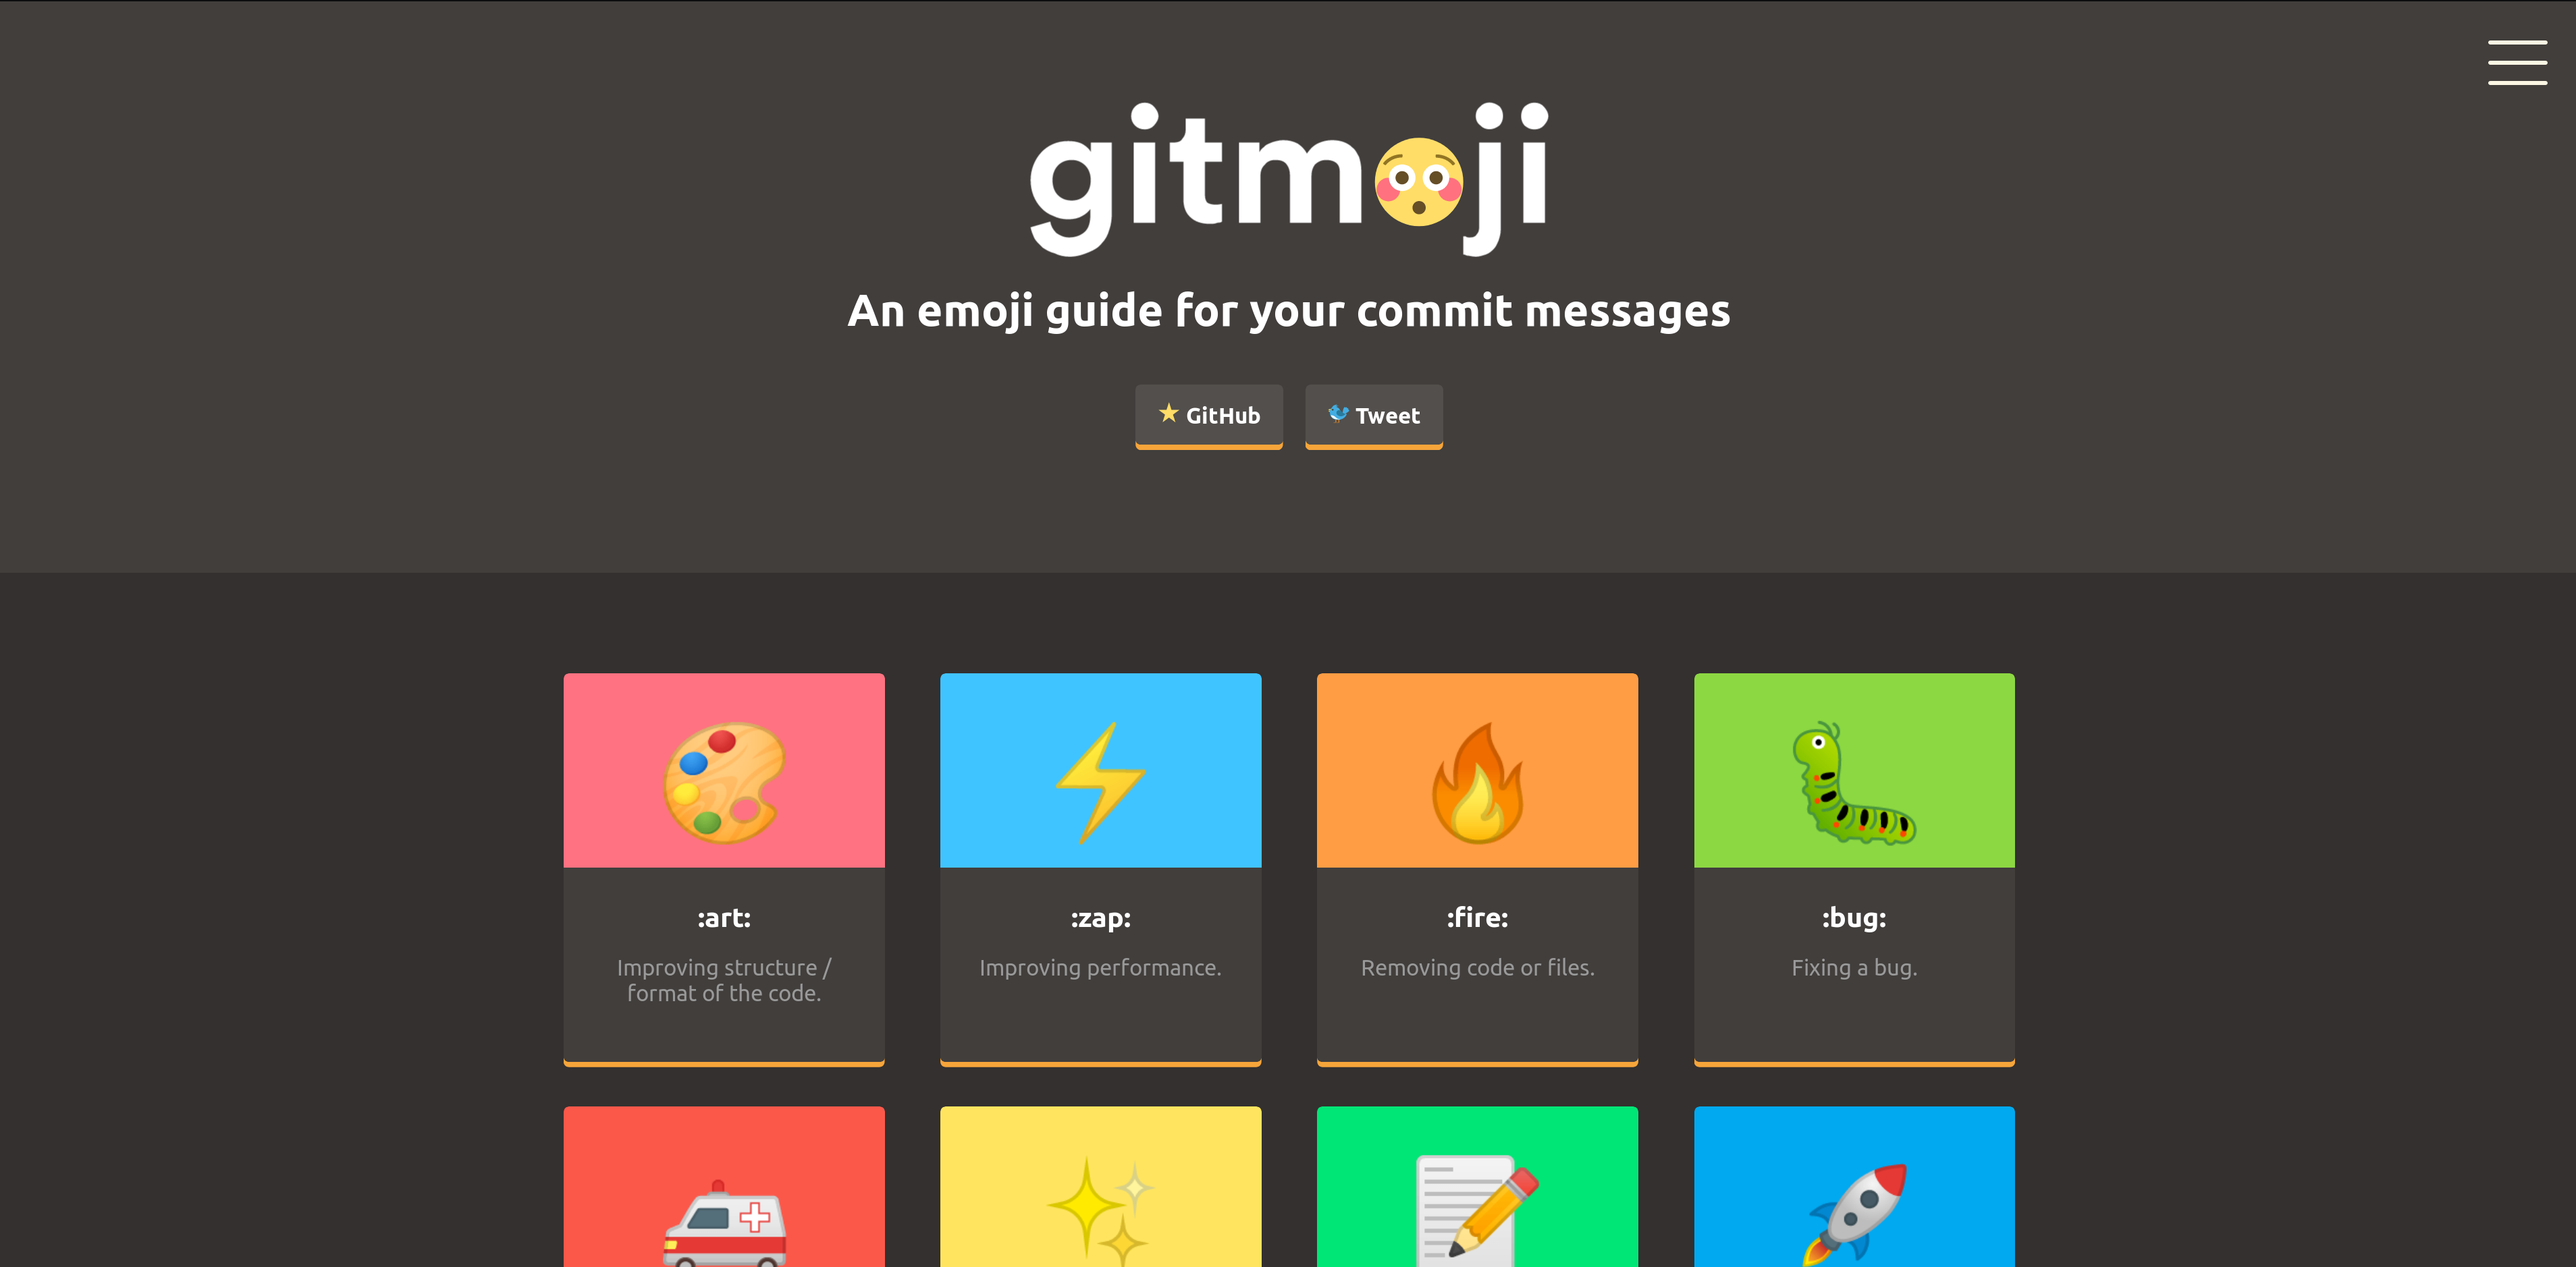
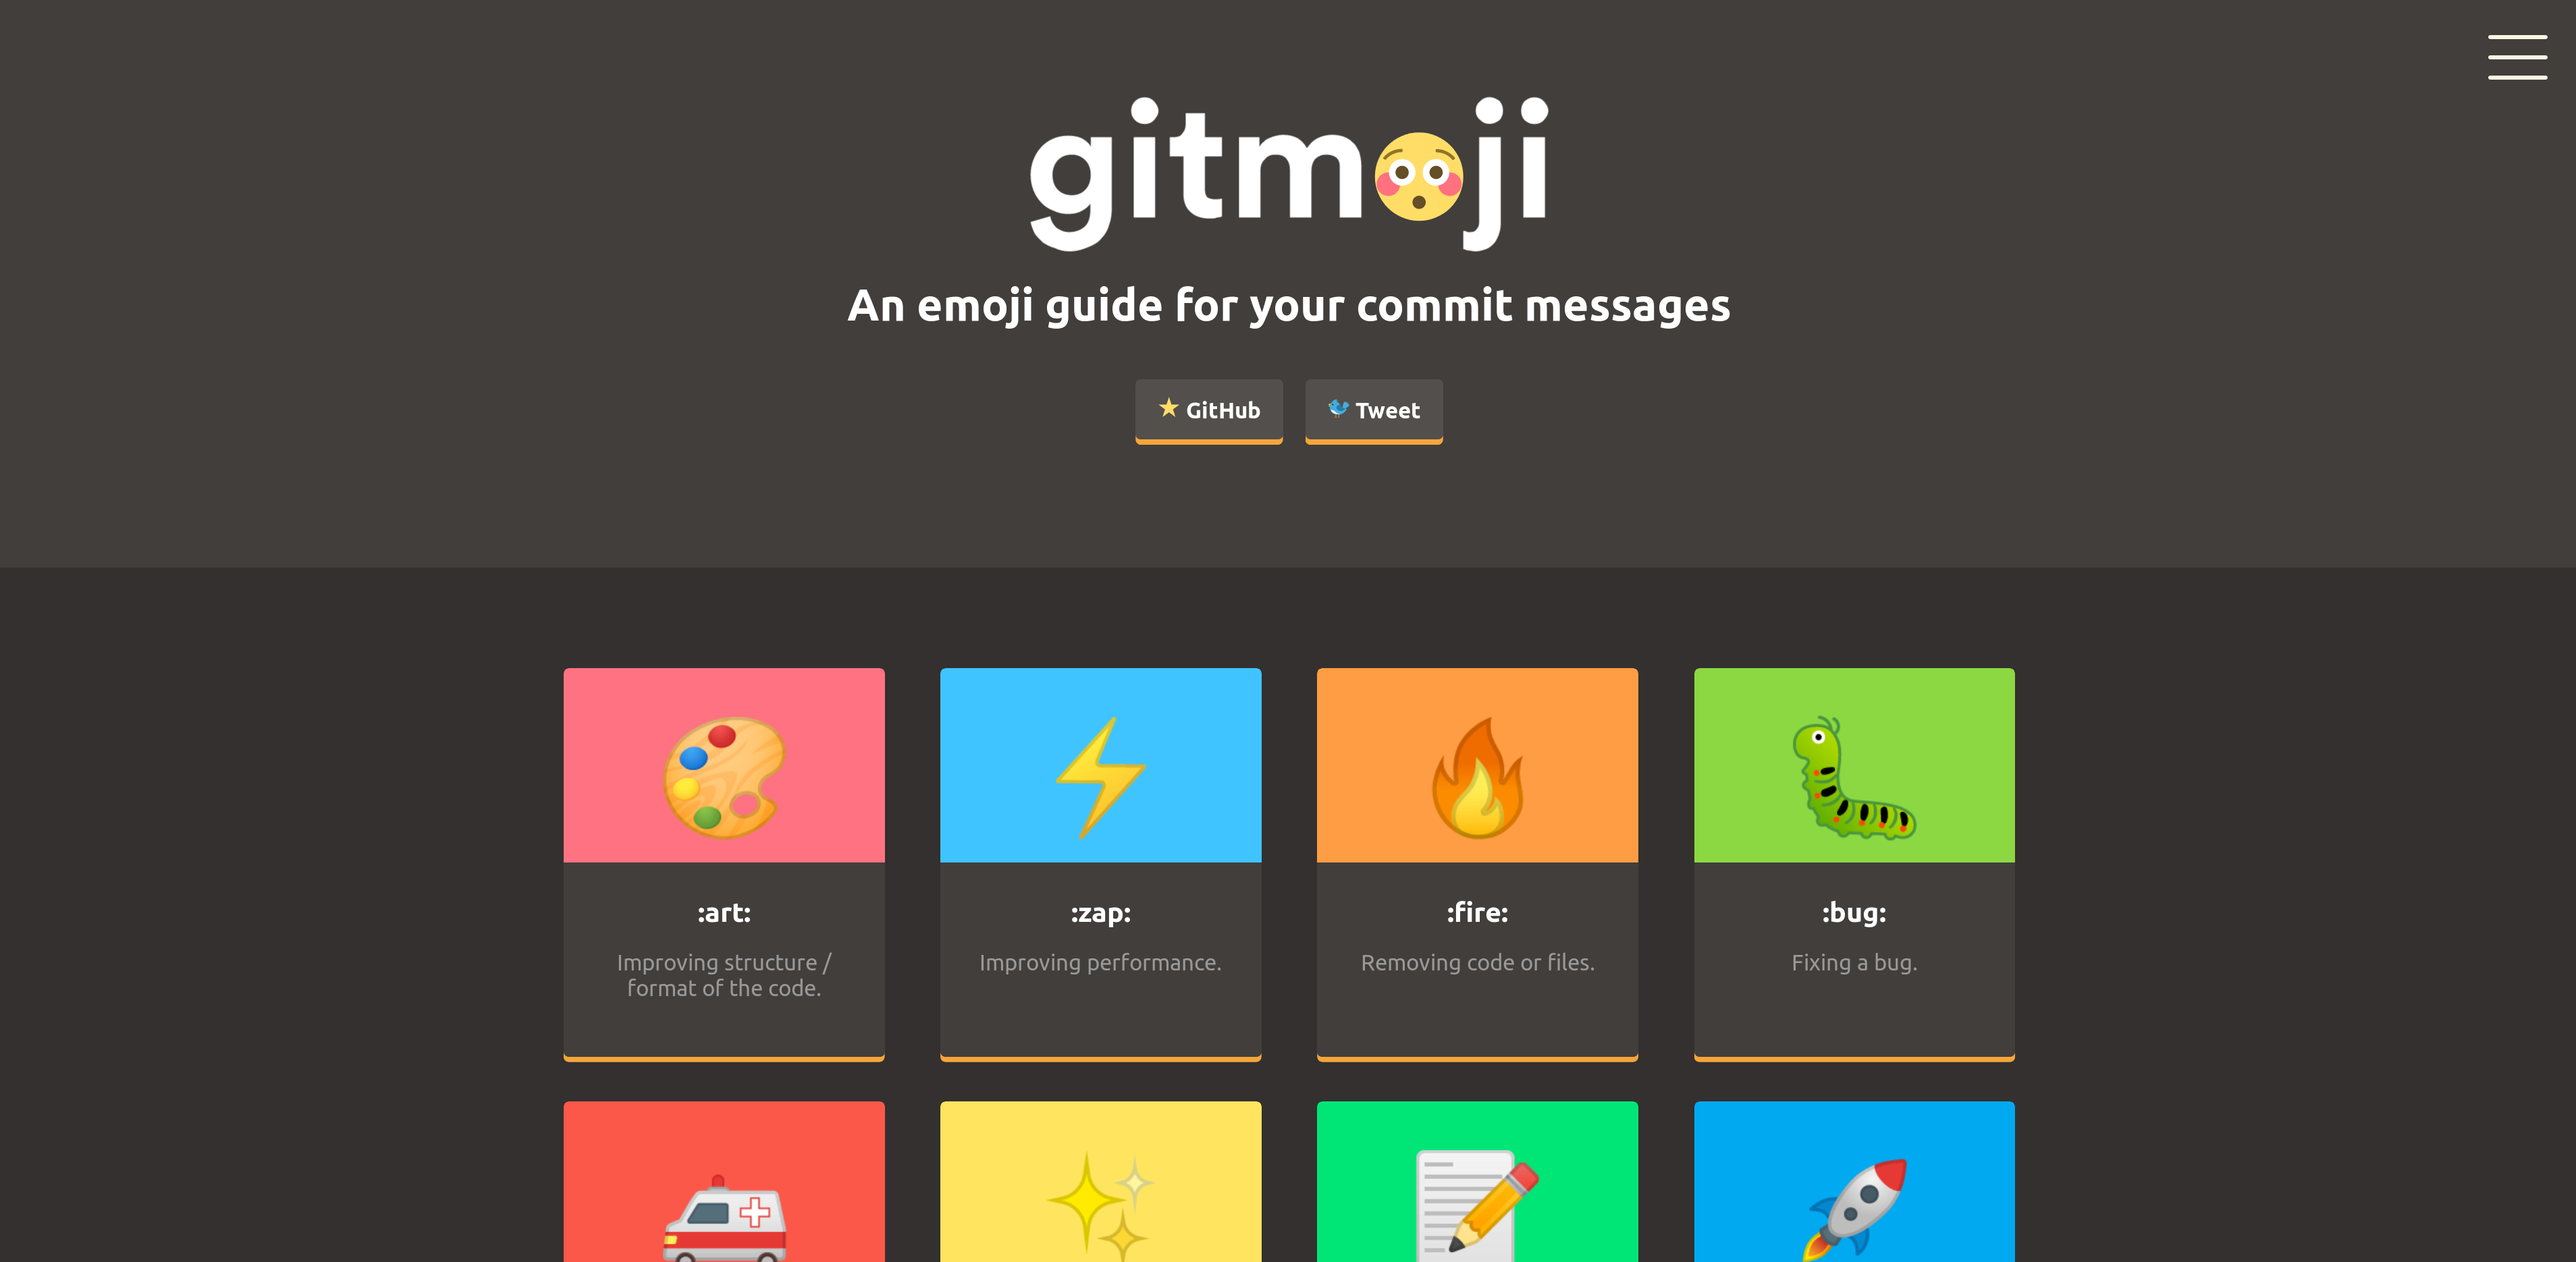
:memo: Crop screenshot and add it to the README

diff --git a/README.md b/README.md
@@ -1,5 +1,7 @@
 # Pop!_OS theme for the gitmoji website
 
+![](./screenshots/Home.png)
+
 ## Installation
 
 Install [Stylus](https://add0n.com/stylus.html) for either [Firefox](https://addons.mozilla.org/en-US/firefox/addon/styl-us/), [Chrome](https://chrome.google.com/webstore/detail/stylus/clngdbkpkpeebahjckkjfobafhncgmne) or [Opera](https://addons.opera.com/en-gb/extensions/details/stylus/) and then install the style using one of these methods:
